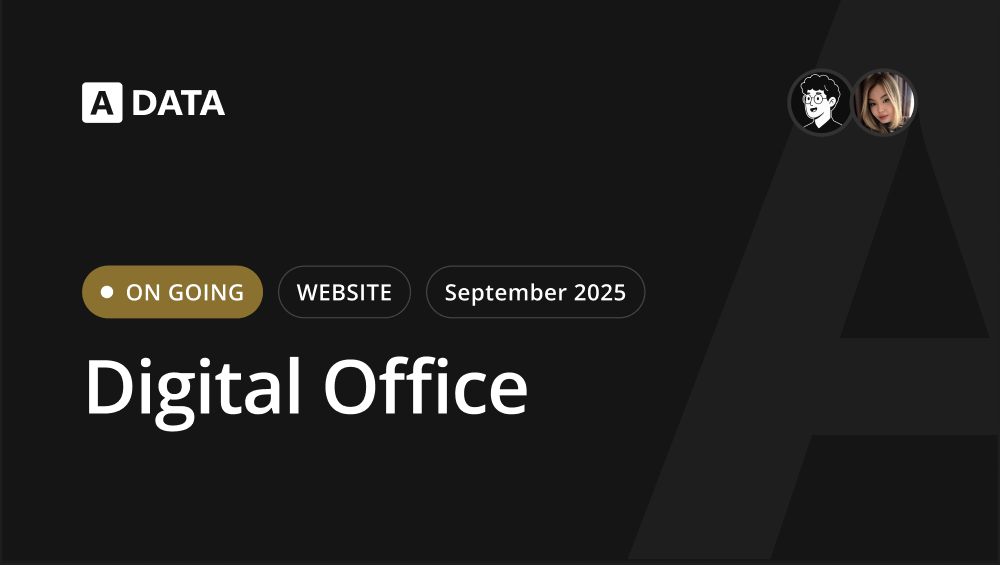
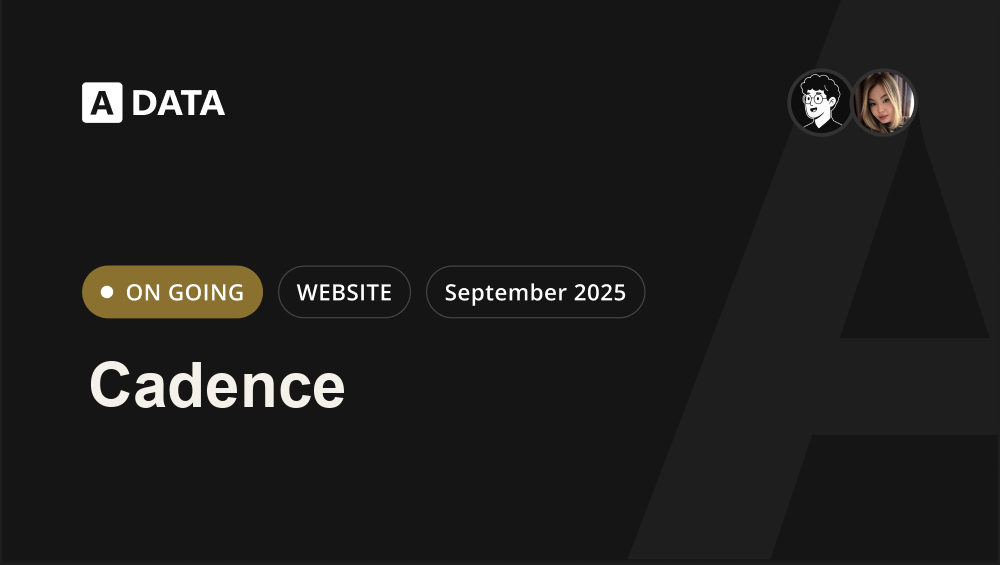
Cadence: real Digital Office redesign screens from Figma (relabeled to Cadence)

Changed region(s): [[0.062, 0.6319, 0.527, 0.7823]]

diff --git a/main.js b/main.js
@@ -359,7 +359,7 @@ const PREVIEW = {
   'speakup': ['shots/speakup.png', 'shots/candor-1.png', 'shots/candor-2.png', 'shots/candor-3.png', 'shots/candor-4.png', 'shots/candor-5.png'],
   'ai-landings': ['shots/prism-1.png', 'shots/prism-2.png', 'shots/prism-3.png', 'shots/prism-4.png', 'shots/prism-5.png'],
   'compliance': ['shots/compliance.png', 'shots/landing-light.png', 'shots/landing-dark.png'],
-  'digital-office': ['shots/do-messenger.png', 'shots/do-news.png', 'shots/do-knowledge.png', 'shots/do-compliance.png', 'shots/digital-office-screens.png'],
+  'digital-office': ['shots/digital-office.png', 'shots/cadence-1.png', 'shots/cadence-2.png', 'shots/cadence-3.png', 'shots/cadence-4.png', 'shots/cadence-5.png'],
   'spk': ['shots/spk.png', 'shots/ean-dossier.png', 'shots/ean-zakupki.png', 'shots/ean-vypiski.png', 'shots/ean-esf.png', 'shots/ean-ved.png']
 };
 const LOGOS = { 'digital-office': 'shots/logo-do.png', 'spk': 'shots/logo-ean.png' };
@@ -370,7 +370,7 @@ const SCREENS = {
   'aml': ['shots/aegis-1.png', 'shots/aegis-2.png', 'shots/aegis-3.png', 'shots/aegis-4.png', 'shots/aegis-5.png'],
   'ai-landings': ['shots/prism-1.png', 'shots/prism-2.png', 'shots/prism-3.png', 'shots/prism-4.png', 'shots/prism-5.png'],
   'compliance': ['shots/landing-light.png', 'shots/landing-dark.png'],
-  'digital-office': ['shots/do-messenger.png', 'shots/do-news.png', 'shots/do-knowledge.png', 'shots/do-compliance.png', 'shots/digital-office-screens.png'],
+  'digital-office': ['shots/cadence-1.png', 'shots/cadence-2.png', 'shots/cadence-3.png', 'shots/cadence-4.png', 'shots/cadence-5.png'],
   'spk': ['shots/ean-dossier.png', 'shots/ean-zakupki.png', 'shots/ean-vypiski.png', 'shots/ean-esf.png', 'shots/ean-ved.png']
 };
 
